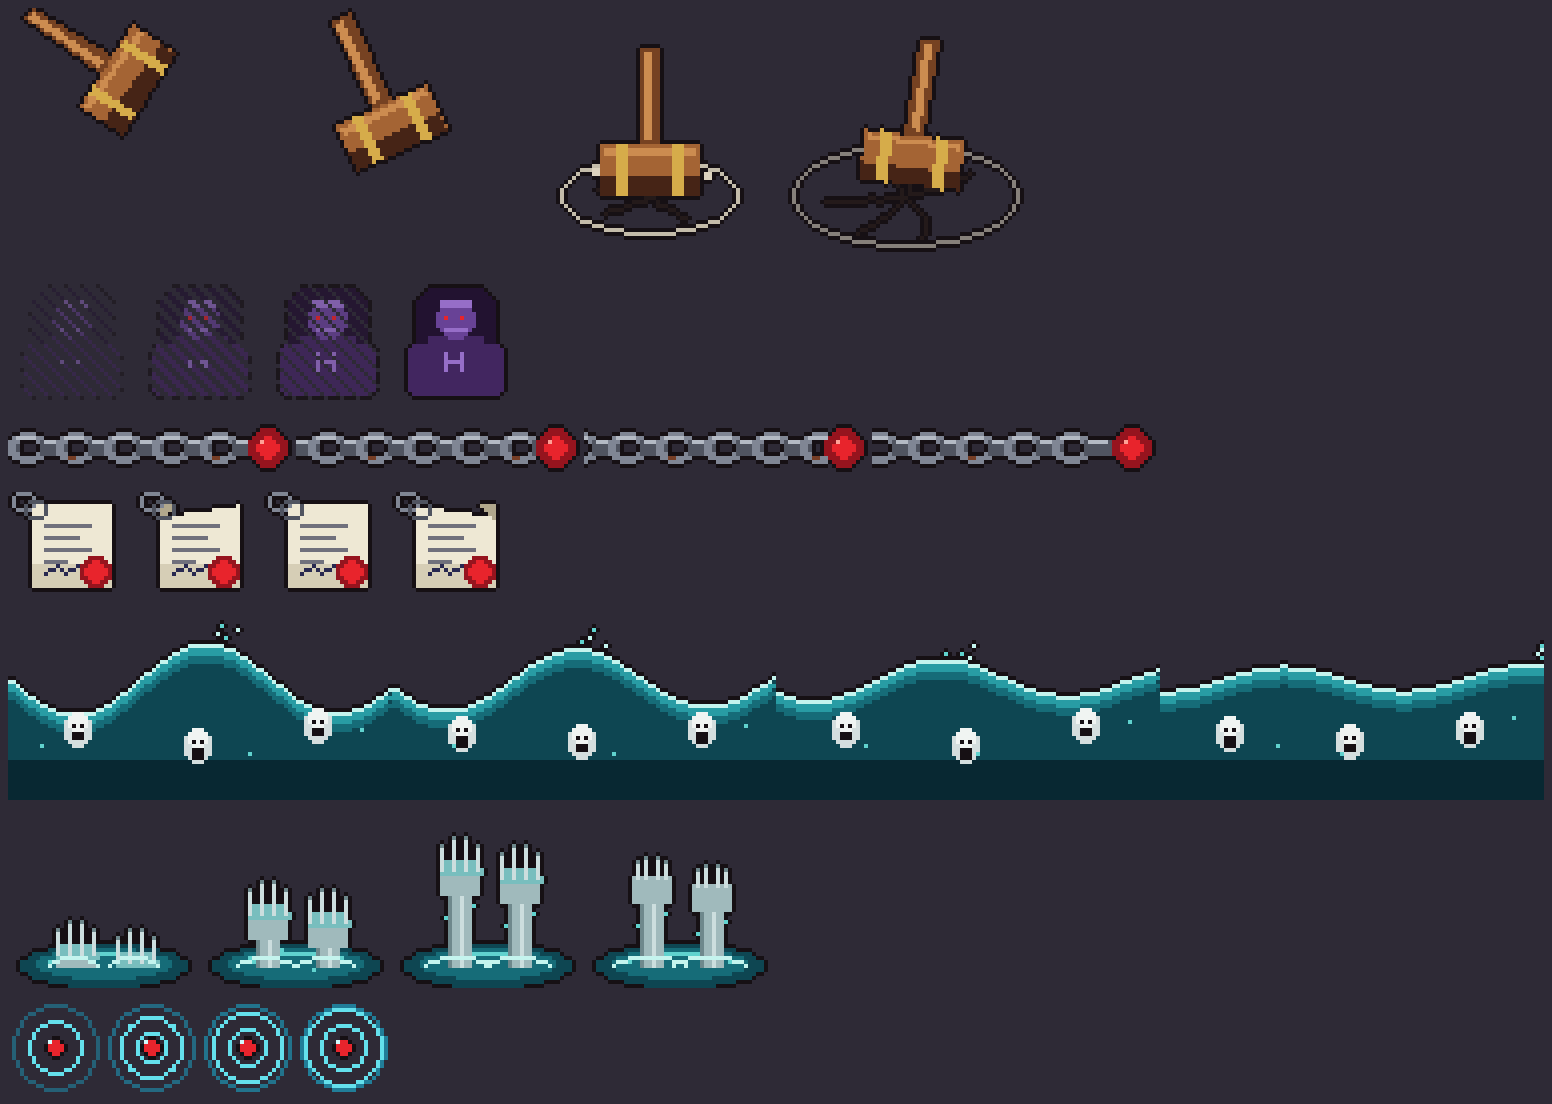
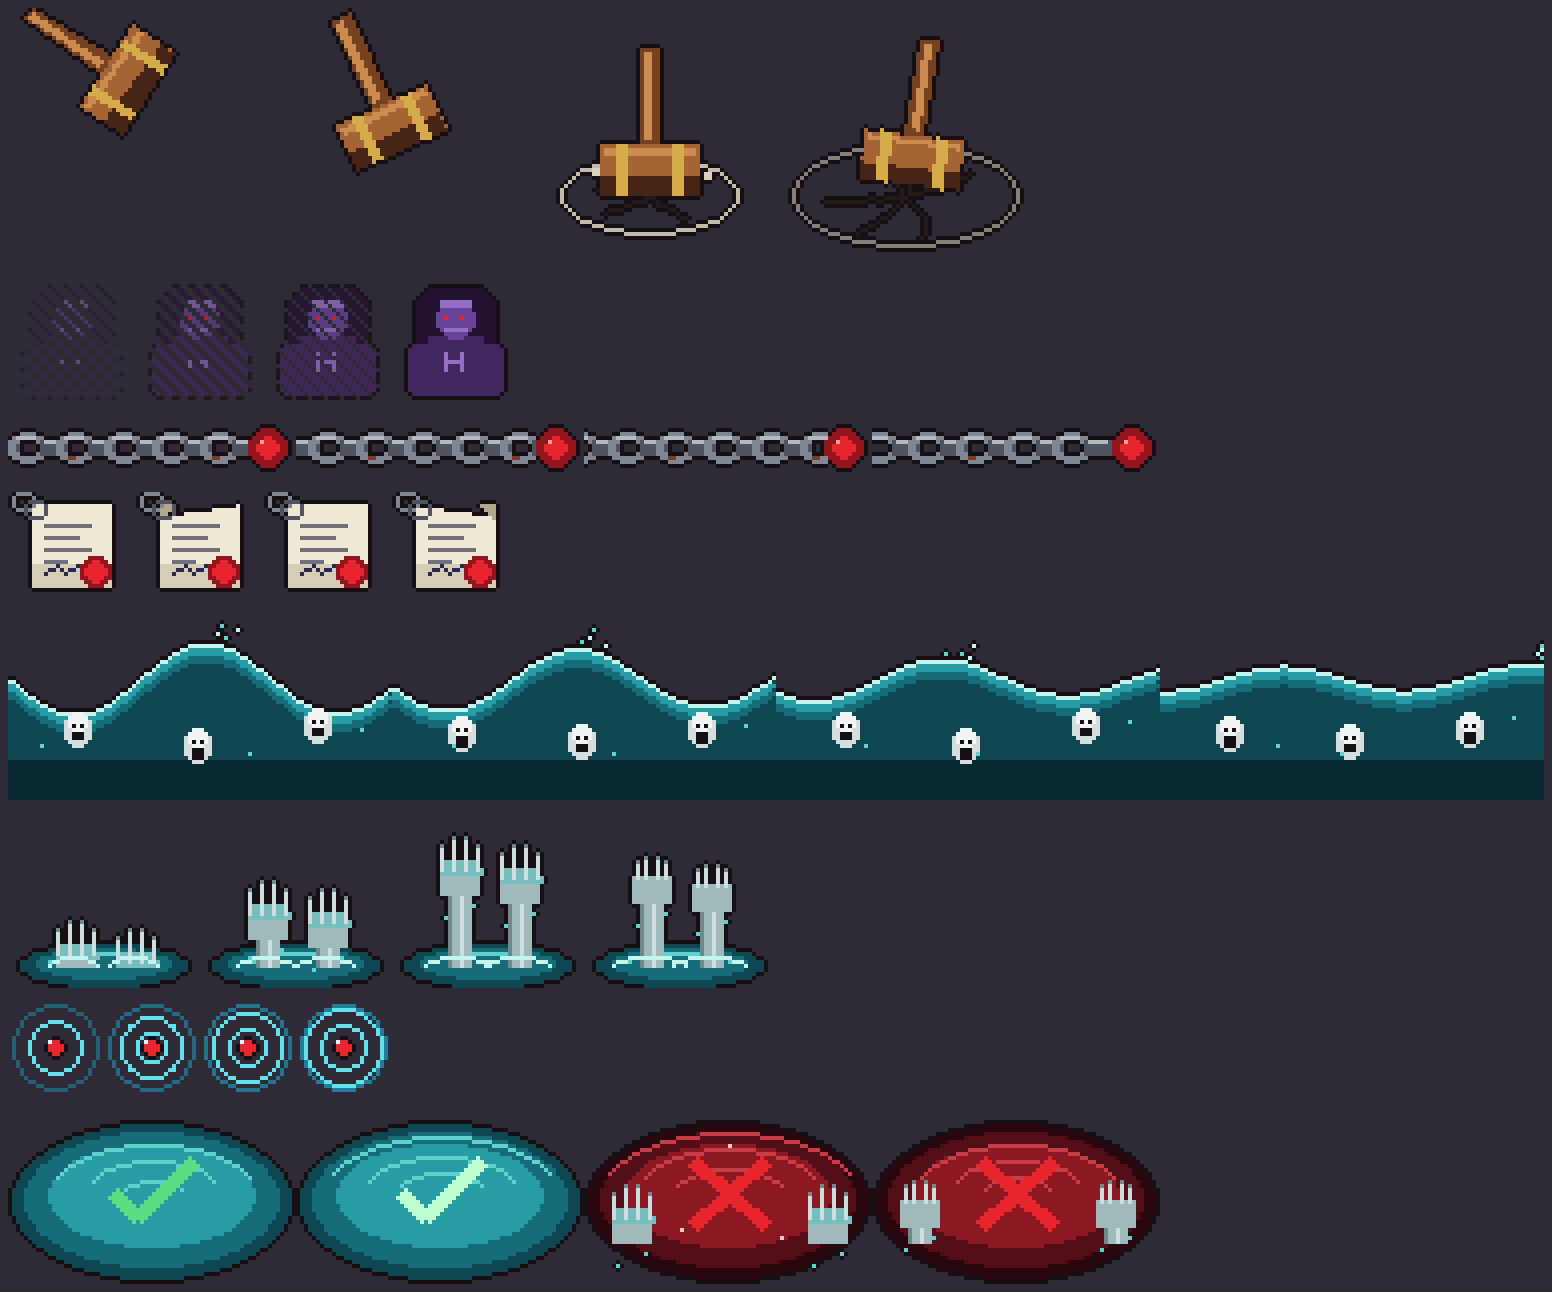
feat: redesenha a armadilha Resposta Confiante da IARA
A placa SEGURO/MENTIRA vira uma poca de agua calma com um visto verde,
que parece lugar seguro. Quando machuca pela primeira vez (1 s), a agua
fica vermelha, o visto vira um X e as maos da IARA saem da borda. Antes
o sprite trocava entre seguro e mentira o tempo todo; agora a mentira
so aparece depois do primeiro dano e fica.

diff --git a/tools/sprites/gerar_poderes.py b/tools/sprites/gerar_poderes.py
@@ -4,7 +4,8 @@ sprites novos (bo_rene e bo_iara). Cada poder é uma faixa de 4 quadros, no tama
 espera (sv_sprite_table.h).
 
     Renê: bp_martelo (Decisão Final), bp_sombra (Premissa H), bp_corrente (D -> C), bp_contrato (D)
-    IARA: bp_onda (onda com rostos), bp_maos (Mãos d'Água), bp_nota (anéis do Canto)
+    IARA: bp_onda (onda com rostos), bp_maos (Mãos d'Água), bp_nota (anéis do Canto),
+          bp_falsa (Resposta Confiante: a poça "segura" que é mentira)
 
 Uso, a partir da raiz do repositório:
     python tools/sprites/gerar_poderes.py            grava em code/assets/sprites/sobrevivencia
@@ -296,8 +297,47 @@ def bp_nota():
     return faixa(quadros)
 
 
+def bp_falsa():
+    """72x44. Resposta Confiante: uma poça calma com um visto verde, parecendo lugar seguro (0, 1);
+    a mentira aparece (2, 3): a água fica vermelha, o visto vira um X e mãos de porcelana saem da borda."""
+    verde = [(40, 150, 90, 255), (90, 220, 130, 255), (190, 255, 210, 255)]
+    vermelho = [(40, 8, 14, 255), (84, 14, 24, 255), (140, 24, 34, 255)]
+    quadros = []
+    for f in range(4):
+        mentira = f >= 2
+        im = Image.new("RGBA", (72, 44), (0, 0, 0, 0))
+        d = ImageDraw.Draw(im)
+        fundo = vermelho if mentira else [AGUA[1], AGUA[2], AGUA[3]]
+        d.ellipse([1, 4, 70, 42], fill=fundo[0])
+        d.ellipse([4, 6, 67, 39], fill=fundo[1])
+        d.ellipse([10, 9, 61, 34], fill=fundo[2])
+        # Ondinhas que andam
+        for k in range(3):
+            r = 8 + ((k * 9 + f * 3) % 26)
+            cor = (200, 60, 70, 255) if mentira else AGUA[4]
+            d.arc([36 - r, 22 - r * 0.5, 36 + r, 22 + r * 0.5], 200, 340, fill=cor)
+        if not mentira:
+            # Visto verde brilhando, como "pode ficar aqui"
+            brilho = verde[2] if f == 1 else verde[1]
+            d.line([(26, 21), (32, 27), (46, 13)], fill=verde[0], width=5)
+            d.line([(26, 21), (32, 27), (46, 13)], fill=brilho, width=3)
+        else:
+            # O visto quebra num X vermelho que brilha no escuro
+            d.line([(27, 13), (45, 29)], fill=(110, 10, 20, 255), width=5)
+            d.line([(45, 13), (27, 29)], fill=(110, 10, 20, 255), width=5)
+            d.line([(27, 13), (45, 29)], fill=BRILHO, width=3)
+            d.line([(45, 13), (27, 29)], fill=BRILHO, width=3)
+            if f == 2:
+                d.point([(36, 9), (24, 30), (49, 32)], fill=(255, 200, 190, 255))   # Estilhaços do visto
+            # Mãos da IARA saindo da borda (as mesmas das Mãos d'Água)
+            for x in (11, 60):
+                mao(d, x, 33, 9 if f == 2 else 13, aberta=f == 2)
+        quadros.append(contornar(im))
+    return faixa(quadros)
+
+
 PODERES = {"bp_martelo": bp_martelo, "bp_sombra": bp_sombra, "bp_corrente": bp_corrente, "bp_contrato": bp_contrato,
-           "bp_onda": bp_onda, "bp_maos": bp_maos, "bp_nota": bp_nota}
+           "bp_onda": bp_onda, "bp_maos": bp_maos, "bp_nota": bp_nota, "bp_falsa": bp_falsa}
 
 
 def gerar(previa=False):

diff --git a/code/src/survival/sv_render.c b/code/src/survival/sv_render.c
@@ -673,8 +673,18 @@ static void draw_hazard(SvHazard *h)
             SvSprite *sprite = &sv_sprites[h->sprite];
             float scale = h->radius * 2.0f / (float)(sprite->frame_width > sprite->frame_height ? sprite->frame_width : sprite->frame_height);
 
+            int frame = anim_frame(sv_run.time, 10.0f) % sprite->frames;
+
+            if (h->sprite == SPR_bp_falsa)
+            {
+                // Resposta Confiante: parece segura até machucar pela primeira vez (1 s), depois mostra a mentira
+                float age = h->max_life - h->life;
+
+                if (age < 1.0f) frame = anim_frame(sv_run.time, 3.0f) % 2;
+                else frame = age < 1.25f ? 2 : 2 + anim_frame(sv_run.time, 3.0f) % 2;
+            }
             if (h->tick > 0.0f || h->damage == 0.0f) DrawCircleV(h->pos, h->radius, (Color){60, 220, 120, 40});
-            sv_draw((SvSpriteId)h->sprite, anim_frame(sv_run.time, 10.0f) % sprite->frames, h->pos, scale < 1.0f ? 1.0f : scale, 0.0f, false, WHITE);
+            sv_draw((SvSpriteId)h->sprite, frame, h->pos, scale < 1.0f ? 1.0f : scale, 0.0f, false, WHITE);
         }
         return;
     }
